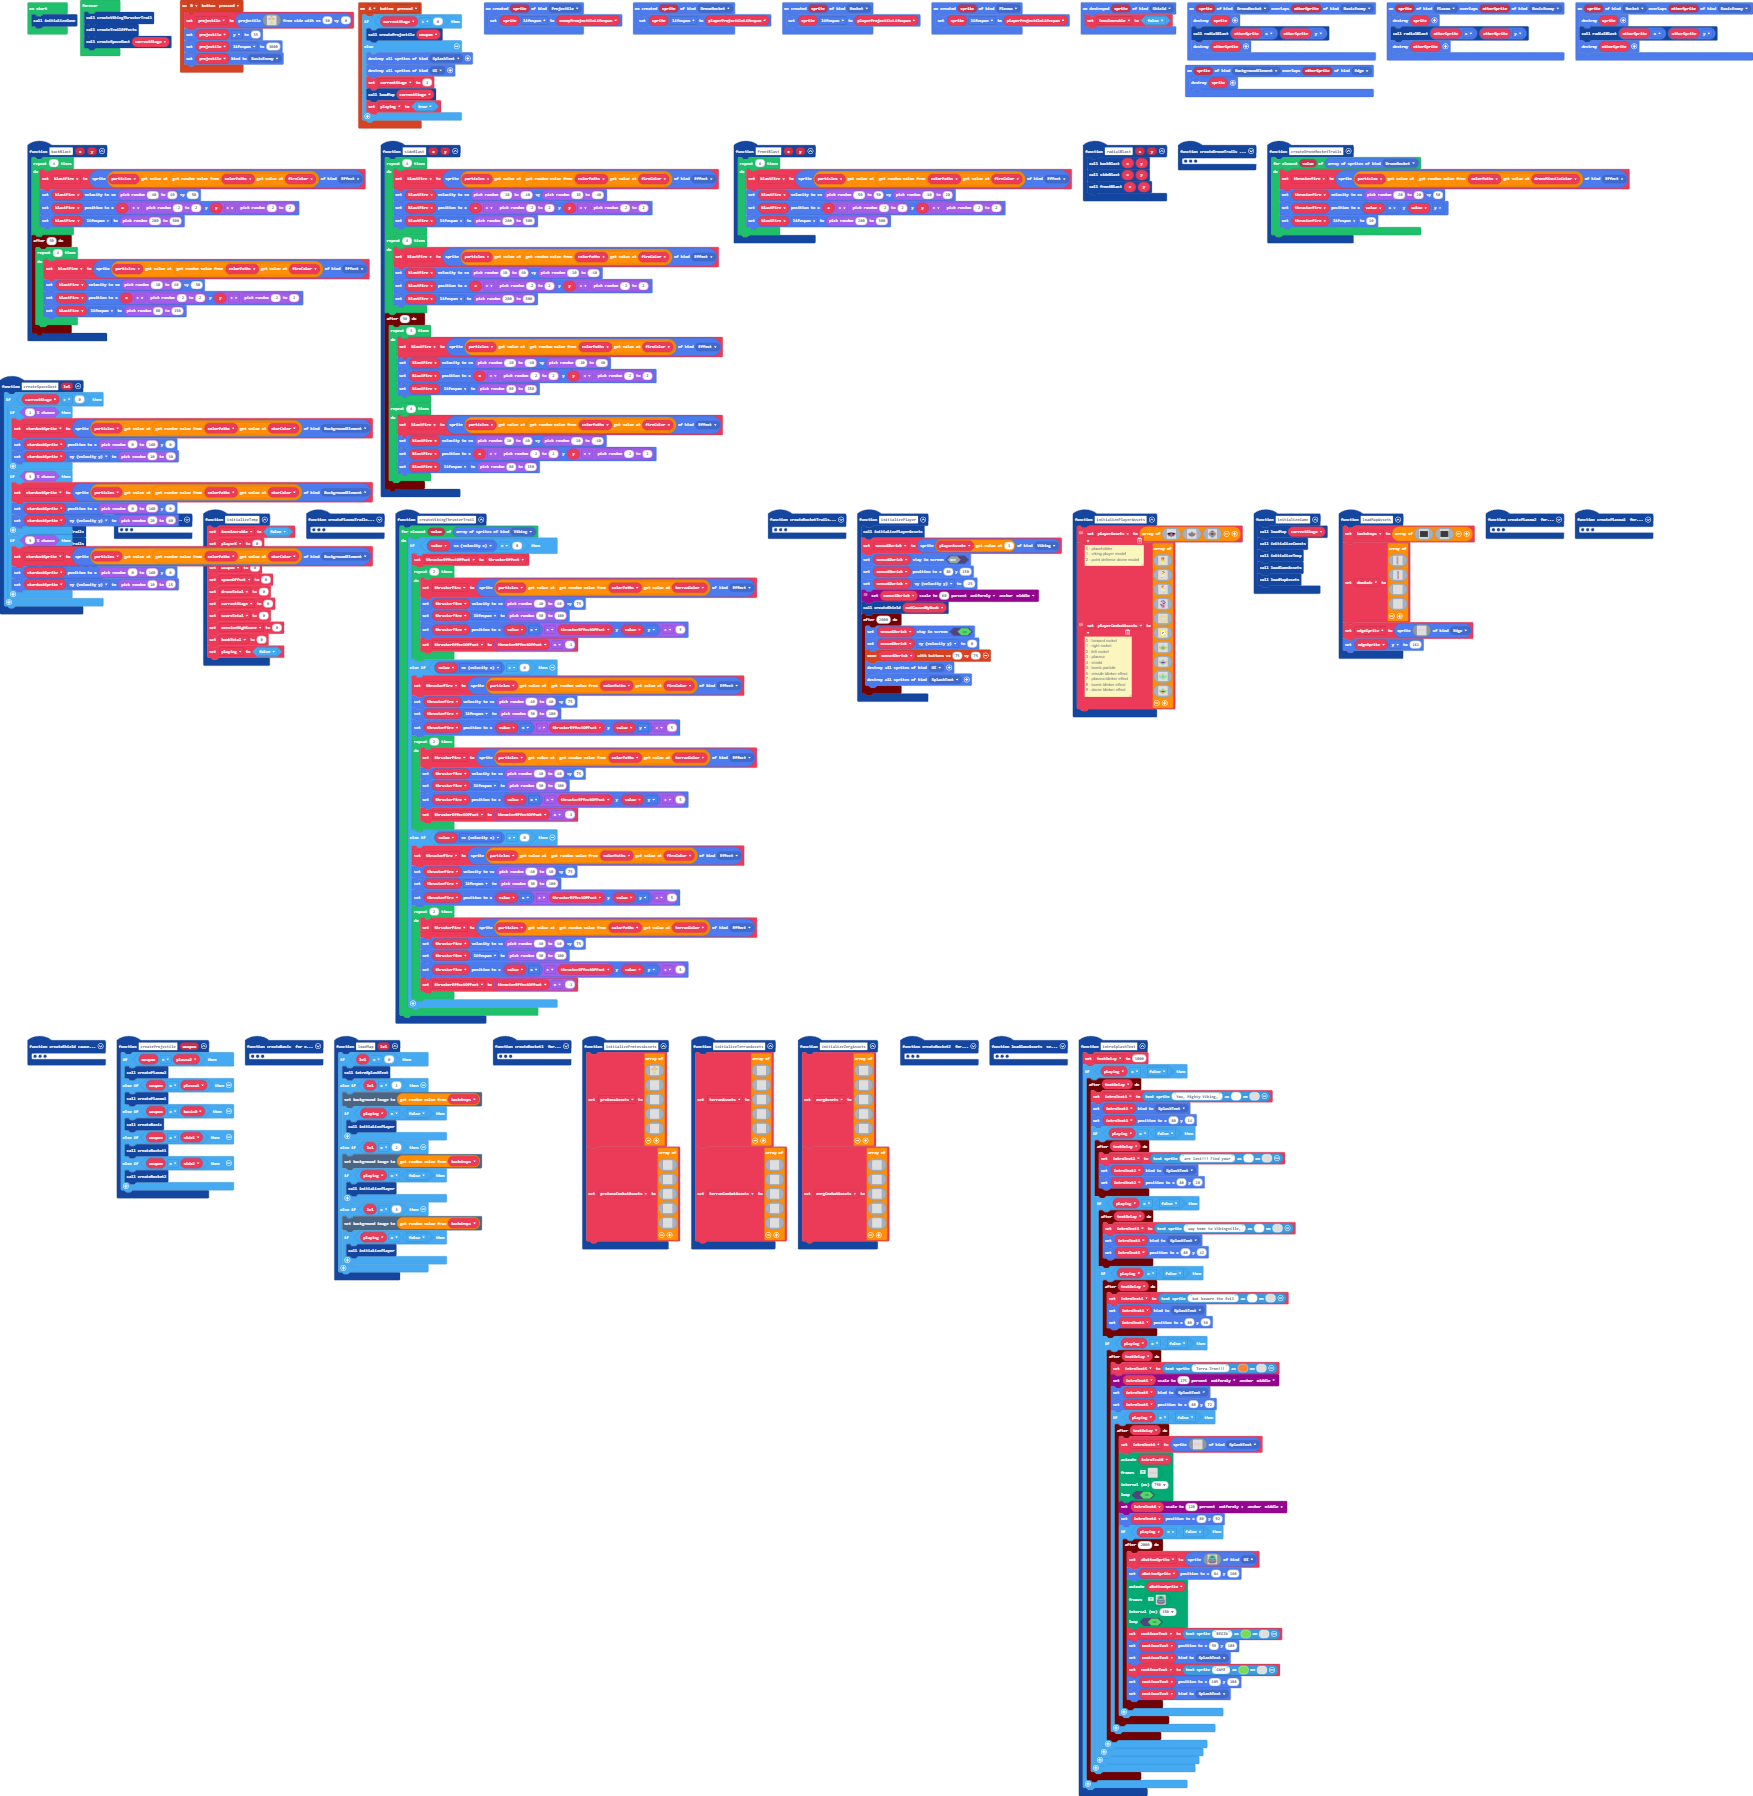
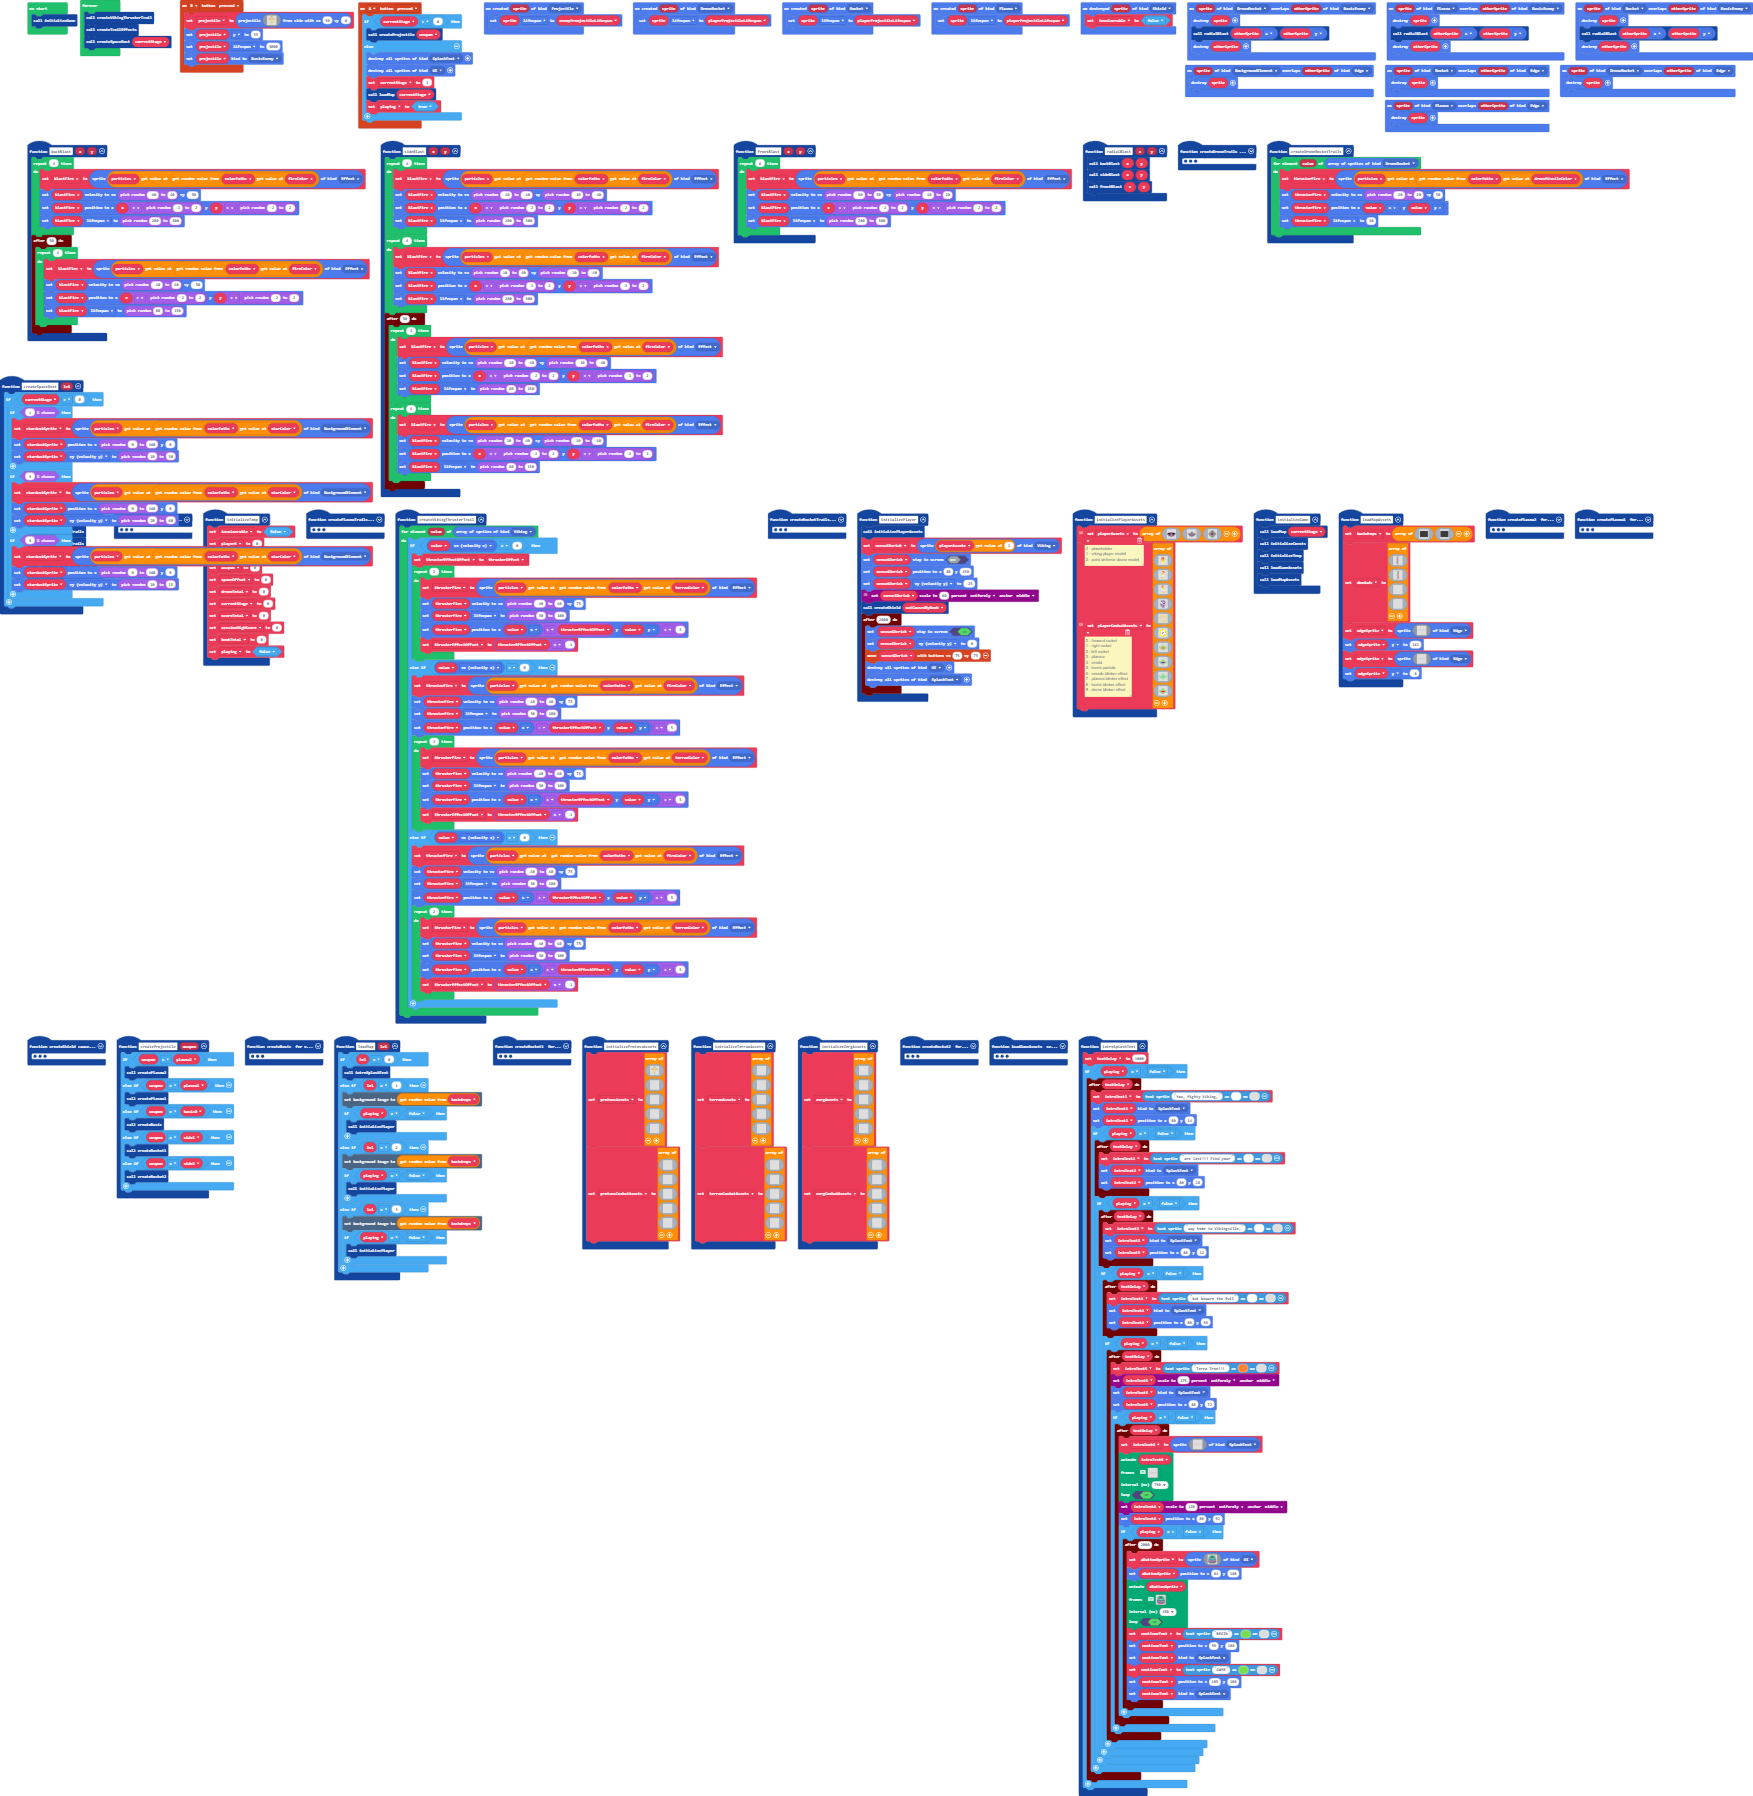
optimized out-of-screen sprite cleanup

Changed region(s): [[0.7701, 0.0312, 1.0, 0.0935], [0.7701, 0.343, 0.8317, 0.4053]]

diff --git a/main.ts b/main.ts
@@ -487,6 +487,9 @@ controller.A.onEvent(ControllerButtonEvent.Pressed, function () {
         playing = true
     }
 })
+sprites.onOverlap(SpriteKind.Plasma, SpriteKind.Edge, function (sprite, otherSprite) {
+    sprites.destroy(sprite)
+})
 sprites.onDestroyed(SpriteKind.Shield, function (sprite) {
     invulnerable = false
 })
@@ -1020,6 +1023,10 @@ function loadMapAssets () {
         f f f f f f f f f f f f f f f f f f f f f f f f f f f f f f f f f f f f f f f f f f f f f f f f f f f f f f f f f f f f f f f f f f f f f f f f f f f f f f f f f f f f f f f f f f f f f f f f f f f f f f f f f f f f f f f f f f f f f f f f f f f f f f f f f f f f f f f f f f f f f f f f f f f f f f f f f f f f f f f f 
         `, SpriteKind.Edge)
     edgeSprite.y = 161
+    edgeSprite = sprites.create(img`
+        f f f f f f f f f f f f f f f f f f f f f f f f f f f f f f f f f f f f f f f f f f f f f f f f f f f f f f f f f f f f f f f f f f f f f f f f f f f f f f f f f f f f f f f f f f f f f f f f f f f f f f f f f f f f f f f f f f f f f f f f f f f f f f f f f f f f f f f f f f f f f f f f f f f f f f f f f f f f f f f f 
+        `, SpriteKind.Edge)
+    edgeSprite.y = -8
 }
 function createShield (cause: boolean) {
     for (let value of sprites.allOfKind(SpriteKind.Viking)) {
@@ -1100,6 +1107,9 @@ function createRocket1 () {
         }
     }
 }
+sprites.onOverlap(SpriteKind.Rocket, SpriteKind.Edge, function (sprite, otherSprite) {
+    sprites.destroy(sprite)
+})
 function sideBlast (x: number, y: number) {
     for (let index = 0; index < 4; index++) {
         blastFire = sprites.create(particles2[colorPaths[fireColor]._pickRandom()], SpriteKind.Effect)
@@ -1378,6 +1388,9 @@ function createDroneTrails () {
         thrusterFire.lifespan = randint(10, 30)
     }
 }
+sprites.onOverlap(SpriteKind.DroneRocket, SpriteKind.Edge, function (sprite, otherSprite) {
+    sprites.destroy(sprite)
+})
 function radialBlast (x: number, y: number) {
     backBlast(x, y)
     sideBlast(x, y)
